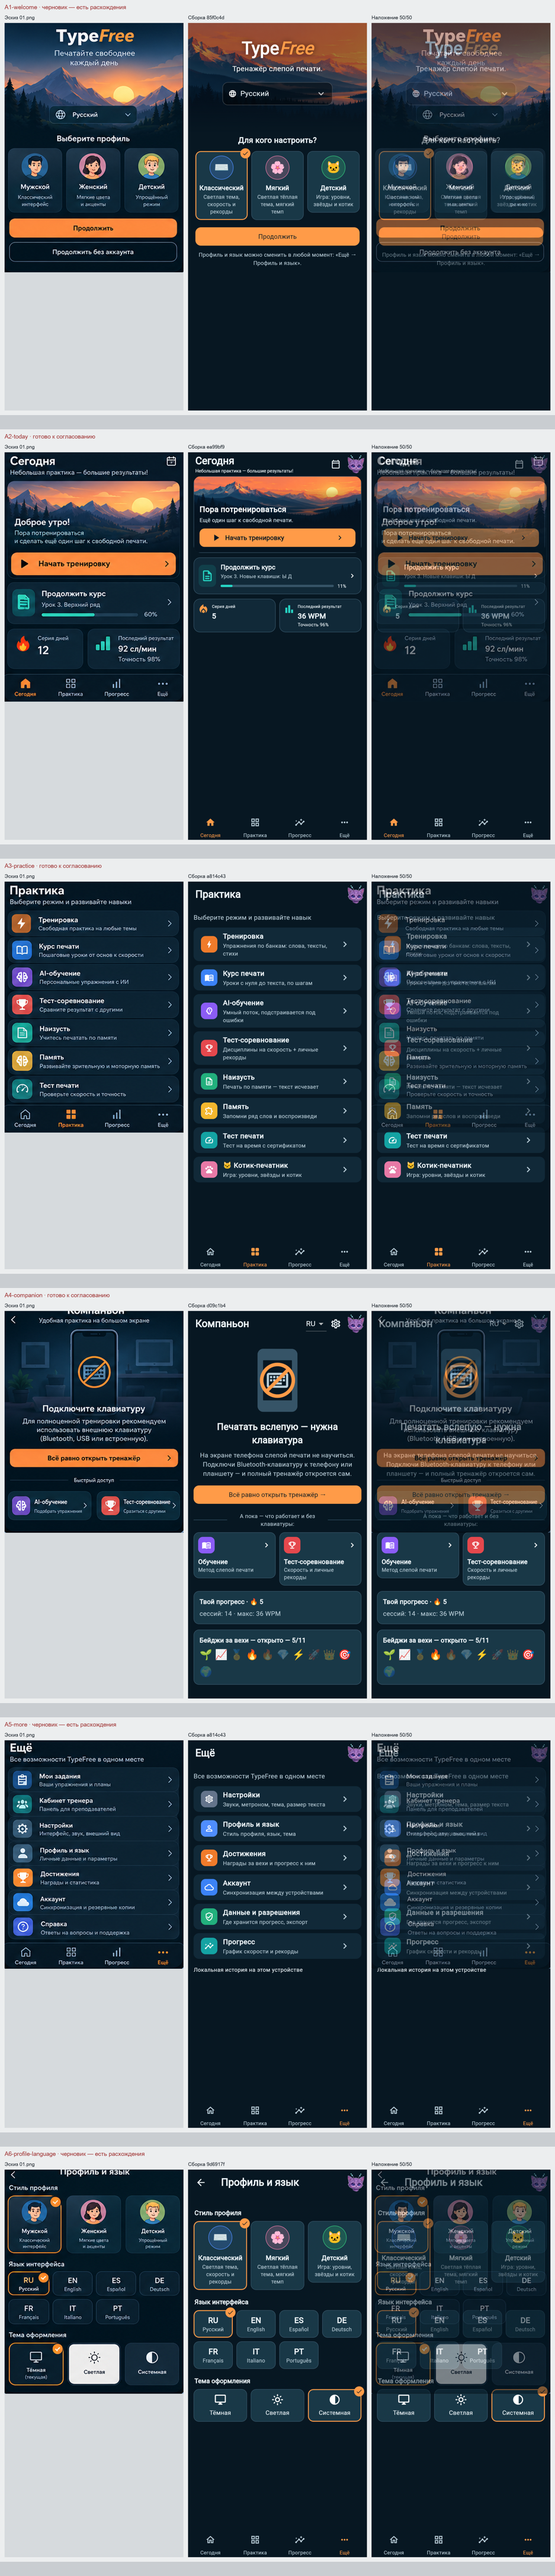
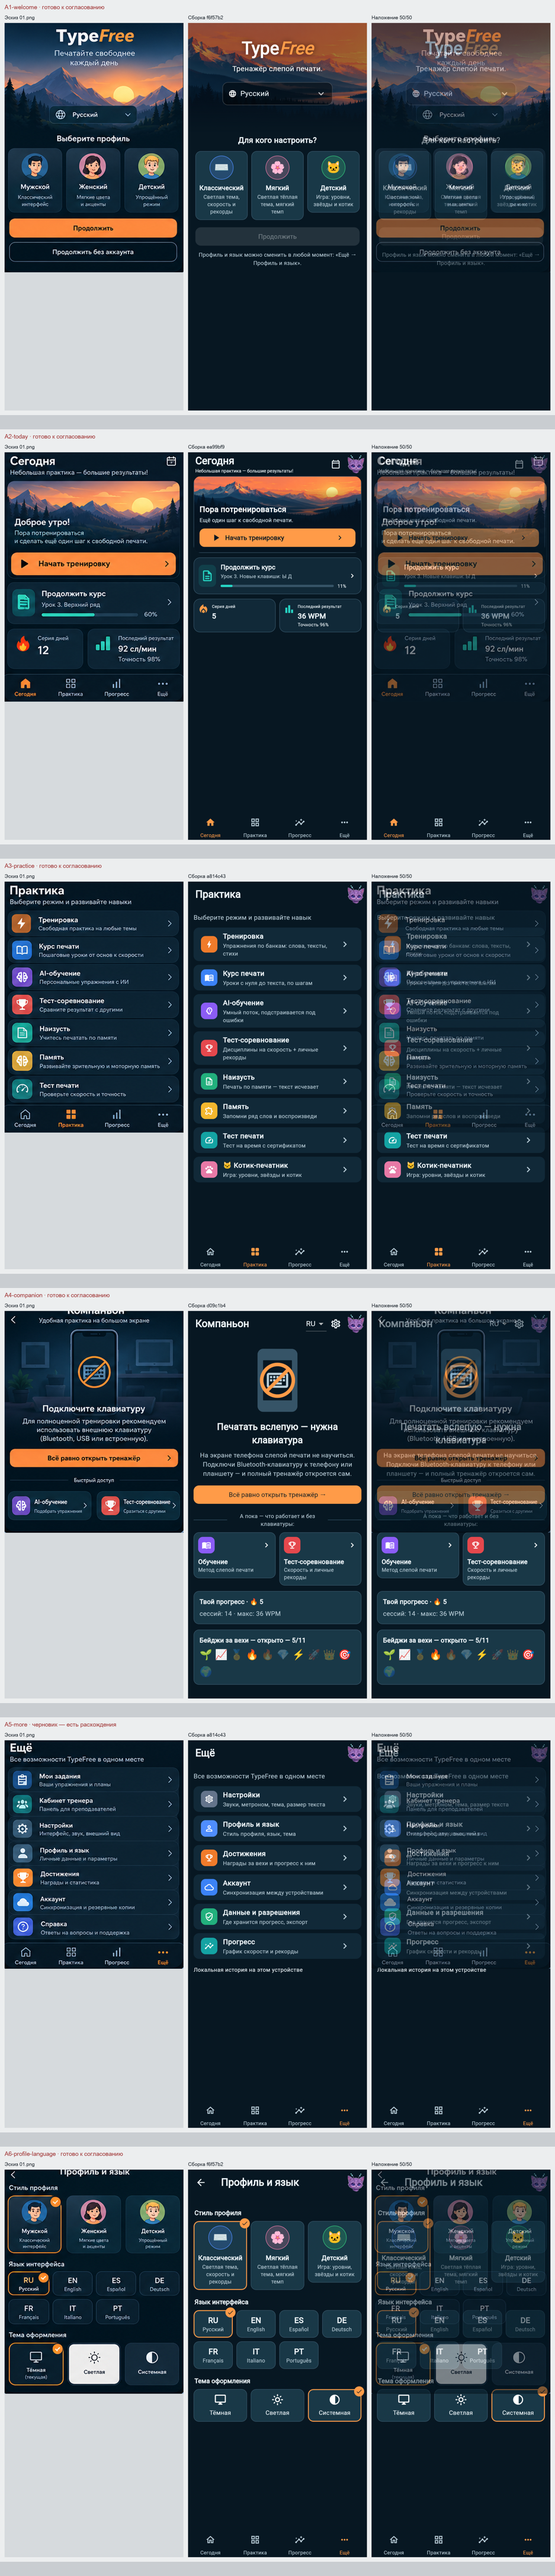
[Claude·MAC] design-acceptance: index after A1/A6

Changed region(s): [[0.3404, 0.0622, 0.6499, 0.0932], [0.6809, 0.0622, 0.9594, 0.0932]]

diff --git a/flutter/design-acceptance/INDEX_20261028.md b/flutter/design-acceptance/INDEX_20261028.md
@@ -5,7 +5,8 @@
 
 | экран | статус | сборка | пакет |
 |---|---|---|---|
-| A1-welcome | черновик — есть расхождения | `85f0c4d` | [20261028-welcome-85f0c4d/A1-welcome](20261028-welcome-85f0c4d/A1-welcome/REPORT.md) |
+| A1-welcome | черновик — есть расхождения (история) | `85f0c4d` | [20261028-welcome-85f0c4d/A1-welcome](20261028-welcome-85f0c4d/A1-welcome/REPORT.md) |
+| A1-welcome | готово к согласованию | `f6f57b2` | [20261029-profiles-f6f57b2/A1-welcome](20261029-profiles-f6f57b2/A1-welcome/REPORT.md) |
 | A2-today | готово к согласованию | `ea99bf9` | [20261028-repeat-ea99bf9/A2-today](20261028-repeat-ea99bf9/A2-today/REPORT.md) |
 | A3-practice | готово к согласованию (история) | `9d6917f` | [20261028-menus-9d6917f/A3-practice](20261028-menus-9d6917f/A3-practice/REPORT.md) |
 | A3-practice | готово к согласованию | `a814c43` | [20261028-header-a814c43/A3-practice](20261028-header-a814c43/A3-practice/REPORT.md) |
@@ -13,7 +14,8 @@
 | A5-more | черновик — есть расхождения (история) | `9d6917f` | [20261028-menus-9d6917f/A5-more](20261028-menus-9d6917f/A5-more/REPORT.md) |
 | A5-more | черновик — есть расхождения (история) | `30cf3ac` | [20261028-account-data-30cf3ac/A5-more](20261028-account-data-30cf3ac/A5-more/REPORT.md) |
 | A5-more | черновик — есть расхождения | `a814c43` | [20261028-header-a814c43/A5-more](20261028-header-a814c43/A5-more/REPORT.md) |
-| A6-profile-language | черновик — есть расхождения | `9d6917f` | [20261028-menus-9d6917f/A6-profile-language](20261028-menus-9d6917f/A6-profile-language/REPORT.md) |
+| A6-profile-language | черновик — есть расхождения (история) | `9d6917f` | [20261028-menus-9d6917f/A6-profile-language](20261028-menus-9d6917f/A6-profile-language/REPORT.md) |
+| A6-profile-language | готово к согласованию | `f6f57b2` | [20261029-profiles-f6f57b2/A6-profile-language](20261029-profiles-f6f57b2/A6-profile-language/REPORT.md) |
 | B1-trainer-desktop | черновик — есть расхождения (история) | `14e83ee` | [20261028-trainer-14e83ee/B1-trainer-desktop](20261028-trainer-14e83ee/B1-trainer-desktop/REPORT.md) |
 | B1-trainer-desktop | черновик — есть расхождения (история) | `6d7ebb3` | [20261028-trainer-rail-6d7ebb3/B1-trainer-desktop](20261028-trainer-rail-6d7ebb3/B1-trainer-desktop/REPORT.md) |
 | B1-trainer-desktop | черновик — есть расхождения (история) | `a814c43` | [20261028-header-a814c43/B1-trainer-desktop](20261028-header-a814c43/B1-trainer-desktop/REPORT.md) |
@@ -120,16 +122,16 @@
 
 ## Покрытие всех 71 состояний атласа
 
-Итог: готово — 44 · нет — 23 · черновик — 4
+Итог: готово — 46 · нет — 23 · черновик — 2
 
 | состояние | что | статус / причина |
 |---|---|---|
-| A1 | Добро пожаловать | черновик — есть расхождения · [20261028-welcome-85f0c4d/A1-welcome](20261028-welcome-85f0c4d/A1-welcome/REPORT.md) |
+| A1 | Добро пожаловать | готово к согласованию · [20261029-profiles-f6f57b2/A1-welcome](20261029-profiles-f6f57b2/A1-welcome/REPORT.md) |
 | A2 | Сегодня | готово к согласованию · [20261028-repeat-ea99bf9/A2-today](20261028-repeat-ea99bf9/A2-today/REPORT.md) |
 | A3 | Практика: все 7 режимов | готово к согласованию · [20261028-header-a814c43/A3-practice](20261028-header-a814c43/A3-practice/REPORT.md) |
 | A4 | Компаньон | готово к согласованию · [20261028-companion-d09c1b4/A4-companion](20261028-companion-d09c1b4/A4-companion/REPORT.md) |
 | A5 | Ещё | черновик — есть расхождения · [20261028-header-a814c43/A5-more](20261028-header-a814c43/A5-more/REPORT.md) |
-| A6 | Профиль и язык | черновик — есть расхождения · [20261028-menus-9d6917f/A6-profile-language](20261028-menus-9d6917f/A6-profile-language/REPORT.md) |
+| A6 | Профиль и язык | готово к согласованию · [20261029-profiles-f6f57b2/A6-profile-language](20261029-profiles-f6f57b2/A6-profile-language/REPORT.md) |
 | B1 | Тренировка desktop | готово к согласованию · [20261029-decisions-dead7be/B1-trainer-desktop](20261029-decisions-dead7be/B1-trainer-desktop/REPORT.md) |
 | B2 | Полная страница тренажёра web | готово к согласованию · [20261029-decisions-dead7be/B2-trainer-web](20261029-decisions-dead7be/B2-trainer-web/REPORT.md) |
 | B3 | Тренажёр landscape / внешняя клавиатура | готово к согласованию · [20261029-decisions-dead7be/B3-trainer-landscape](20261029-decisions-dead7be/B3-trainer-landscape/REPORT.md) |

diff --git a/flutter/design-acceptance/PANELS_20261028/README.md b/flutter/design-acceptance/PANELS_20261028/README.md
@@ -2,12 +2,12 @@
 
 Последняя панель каждого экрана: эскиз | сборка | наложение 50/50. Таблица — REPORT.md пакета. Решения Дениса нет.
 
-- A1 · черновик — есть расхождения · 20261028-welcome-85f0c4d/A1-welcome
+- A1 · готово к согласованию · 20261029-profiles-f6f57b2/A1-welcome
 - A2 · готово к согласованию · 20261028-repeat-ea99bf9/A2-today
 - A3 · готово к согласованию · 20261028-header-a814c43/A3-practice
 - A4 · готово к согласованию · 20261028-companion-d09c1b4/A4-companion
 - A5 · черновик — есть расхождения · 20261028-header-a814c43/A5-more
-- A6 · черновик — есть расхождения · 20261028-menus-9d6917f/A6-profile-language
+- A6 · готово к согласованию · 20261029-profiles-f6f57b2/A6-profile-language
 - F1 · готово к согласованию · 20261029-decisions-dead7be/F1-progress
 - F2 · готово к согласованию · 20261028-draftfix-4988a11/F2-achievements
 - F3 · готово к согласованию · 20261028-settings-2e40bf5/F3-input-settings
